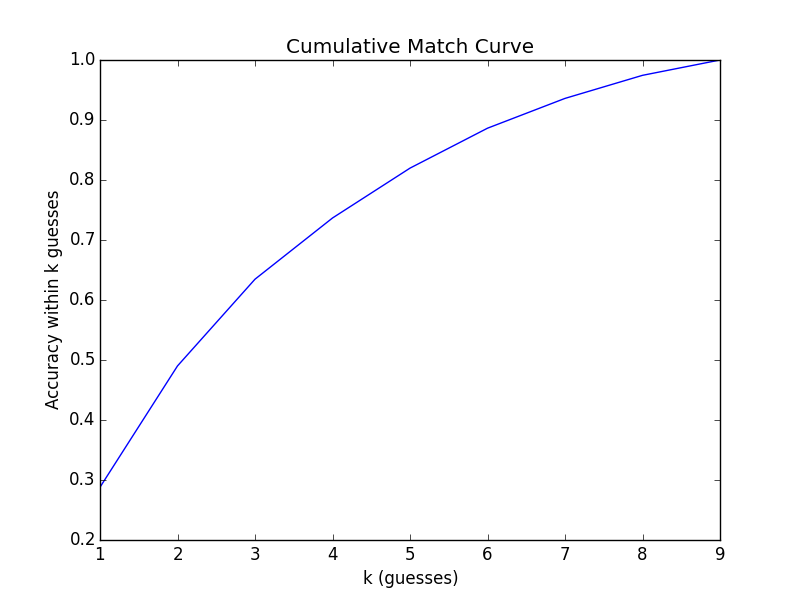
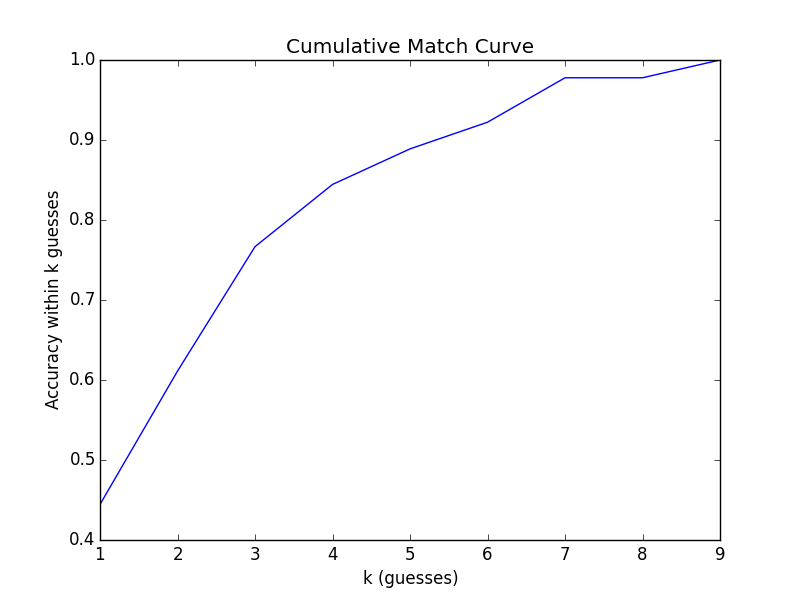
Corrections to P2 and P3

diff --git a/P2.py b/P2.py
@@ -25,7 +25,7 @@ def norm_words(words, exclude_stopwords=False):
 		if not w == '' and not w in word_list:
 			add_word = True
 			if exclude_stopwords:
-				if w in stopwords.words():
+				if w in stopwords.words('english'):
 					add_word = False
 			if add_word:
 				word_list.append(w)
@@ -95,17 +95,17 @@ def all_x_all_y(years, plots):
 	return wc
 
 # Returns probability of word in given year
-def p_x_given_y(wc, word, year):
+def p_x_given_y(wc, word, year, y_count):
 	p = 0.00001
 	word = norm_word(word)
 	if word in wc:
 		if year in wc[word]:
-			p = wc[word][year]/sum(wc[word].values())
+			p = wc[word][year]/y_count
 	#print word, p
 	return p	
 
 # Returns sorted tuple of movie prediction for each year for given plot
-def movie_decade_probs(wc, years, plot, skip_words=None):
+def movie_decade_probs(wc, years, train_sample_size, plot, skip_words=None):
 	min_year, max_year, bin_num = year_stats(years)
 	decade_probs = {}
 	for year in range(min_year, max_year + 10, 10):
@@ -114,7 +114,7 @@ def movie_decade_probs(wc, years, plot, skip_words=None):
 			if skip_words and year in skip_words:
 				if word in skip_words[year]:
 					continue
-			p += math.log(p_x_given_y(wc, word, year),10)
+			p += math.log(p_x_given_y(wc, word, year, train_sample_size),10)
 		decade_probs[year] = p
 	sorted_probs = sorted(decade_probs.items(), key=operator.itemgetter(1), reverse=True)
 	return sorted_probs
@@ -131,12 +131,12 @@ def get_movie(all_movies, movie_title):
 	return year, plot
 
 # Returns Predicted movie year
-def predict_decade(wc, years_train, plot='', title='', all_movies=None, prints=False, skip_words=None):
+def predict_decade(wc, years_train, train_sample_size, plot='', title='', all_movies=None, prints=False, skip_words=None):
 	decade = 0
 	if not title == '' and not all_movies == None:
 		decade, plot = get_movie(all_movies, title)
 	
-	decade_probs = movie_decade_probs(wc, years_train, plot, skip_words=skip_words)
+	decade_probs = movie_decade_probs(wc, years_train, train_sample_size, plot, skip_words=skip_words)
 	predicted_decade =  decade_probs[0][0]
 
 	if prints:
@@ -169,7 +169,7 @@ if __name__ == '__main__':
 	year_count_train = [0]*bin_num
 	year_count_test = [0]*bin_num
 	train_sample_size = 5000
-	test_sample_size = 1000
+	test_sample_size = 10
 
 	# Create uniformly distributed training and test sets
 	for i, year in enumerate(years):
@@ -190,7 +190,7 @@ if __name__ == '__main__':
 	correct_count = [0.]*bin_num
 	confusion_matrix = np.zeros((bin_num,bin_num))
 	for i, plot in enumerate(plots_test):
-		predicted_decade, decade_probs = predict_decade(wc, years_train, plot=plot)
+		predicted_decade, decade_probs = predict_decade(wc, years_train, train_sample_size, plot=plot)
 		actual_year = years_test[i]
 		ay_bin = int((actual_year - min_year)/10)
 		py_bin = int((predicted_decade - min_year)/10)
@@ -223,11 +223,11 @@ if __name__ == '__main__':
 	# hist_plot(y_given_x(years_train, plots_train, 'the'), "PMF of P(Y|X'the'>0)", 'P2h.png')
 
 	# 2j. Predicts for certain movies
-	predict_decade(wc, years_train, title='Finding Nemo', all_movies = all_movies, prints = True)
-	predict_decade(wc, years_train, title='The Matrix', all_movies = all_movies, prints = True)
-	predict_decade(wc, years_train, title='Gone with the Wind', all_movies = all_movies, prints = True)
-	predict_decade(wc, years_train, title='Harry Potter and the Goblet of Fire', all_movies = all_movies, prints = True)
-	predict_decade(wc, years_train, title='Avatar', all_movies = all_movies, prints = True)
+	predict_decade(wc, years_train, train_sample_size, title='Finding Nemo', all_movies = all_movies, prints = True)
+	predict_decade(wc, years_train, train_sample_size, title='The Matrix', all_movies = all_movies, prints = True)
+	predict_decade(wc, years_train, train_sample_size, title='Gone with the Wind', all_movies = all_movies, prints = True)
+	predict_decade(wc, years_train, train_sample_size, title='Harry Potter and the Goblet of Fire', all_movies = all_movies, prints = True)
+	predict_decade(wc, years_train, train_sample_size, title='Avatar', all_movies = all_movies, prints = True)
 	
 	# 2k. Accuracy of the classifier
 	print "Accuracy on test: ", correct_count[0]/len(plots_test)

diff --git a/P3.py b/P3.py
@@ -55,7 +55,7 @@ if __name__ == '__main__':
 	years_test, plots_test, titles_test = [], [], []
 	year_count_train = [0]*bin_num
 	year_count_test = [0]*bin_num
-	train_sample_size = 6000
+	train_sample_size = 5000
 	test_sample_size = 1000
 
 	# Create uniformly distributed training and test sets
@@ -83,8 +83,8 @@ if __name__ == '__main__':
 	correct_count_wo = [0.]*bin_num
 	correct_count_w = [0.]*bin_num
 	for i, plot in enumerate(plots_test):
-		predicted_decade_wo, decade_probs_wo = P2.predict_decade(wc, years_train, plot=plot, skip_words=top_words)
-		predicted_decade_w, decade_probs_w = P2.predict_decade(wc, years_train, plot=plot)
+		predicted_decade_wo, decade_probs_wo = P2.predict_decade(wc, years_train, train_sample_size, plot=plot, skip_words=top_words)
+		predicted_decade_w, decade_probs_w = P2.predict_decade(wc, years_train, train_sample_size, plot=plot)
 
 		actual_year = years_test[i]
 		for i, decade in enumerate(decade_probs_wo):

diff --git a/parse_movies_example.py b/parse_movies_example.py
@@ -14,8 +14,6 @@ def load_all_movies(filename):
     current_movie = None
     movie_regexp = re.compile("MV: ((.*?) \(([0-9]+).*\)(.*))")
     skipped = 0
-    prev_title = ''
-    prev_year = 0
 
     # DEBUG
     stop = 20000
@@ -37,7 +35,7 @@ def load_all_movies(filename):
             try:
                 identifier, title, year, episode = movie_regexp.match(line).groups()
                 # Also skip duplicate movies
-                if int(year) < 1930 or int(year) > 2014 or (prev_year == year and prev_title == title):
+                if int(year) < 1930 or int(year) > 2014:
                     # Something went wrong here
                     raise ValueError(identifier)
                 prev_title = title
